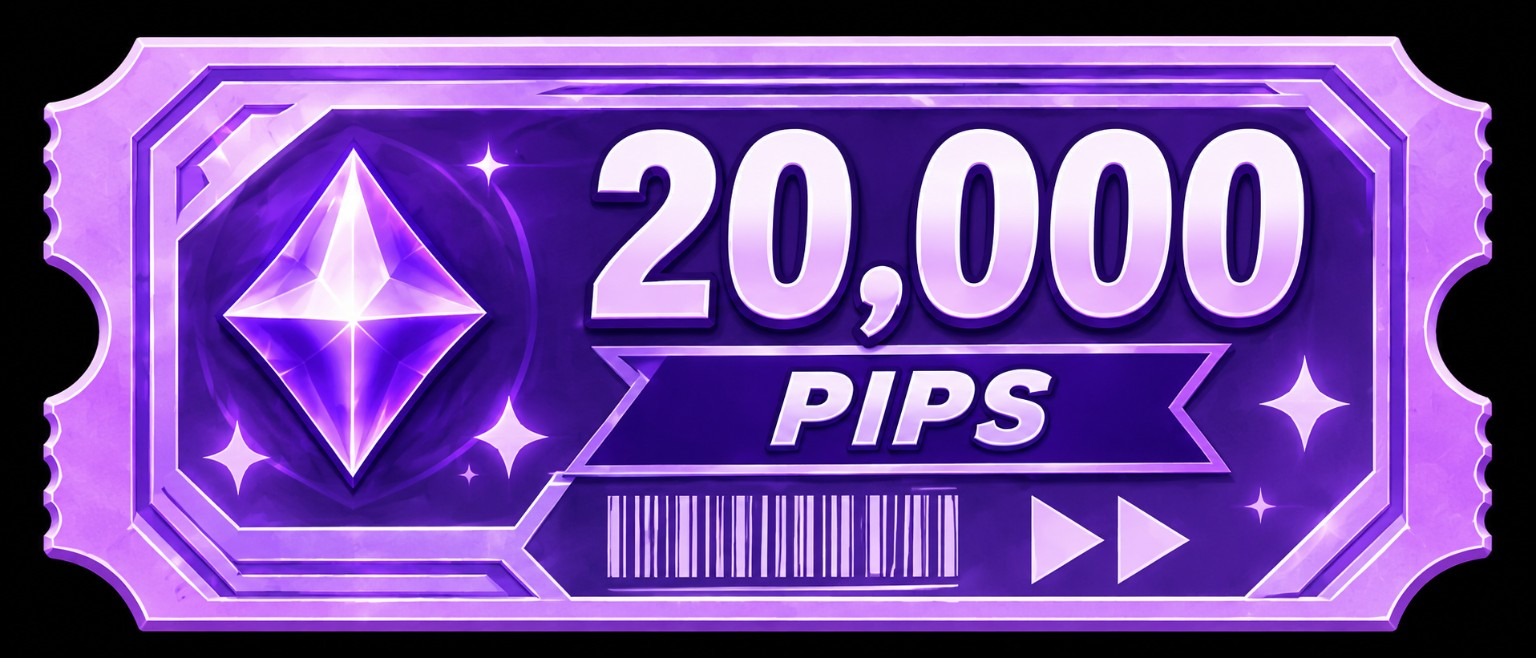
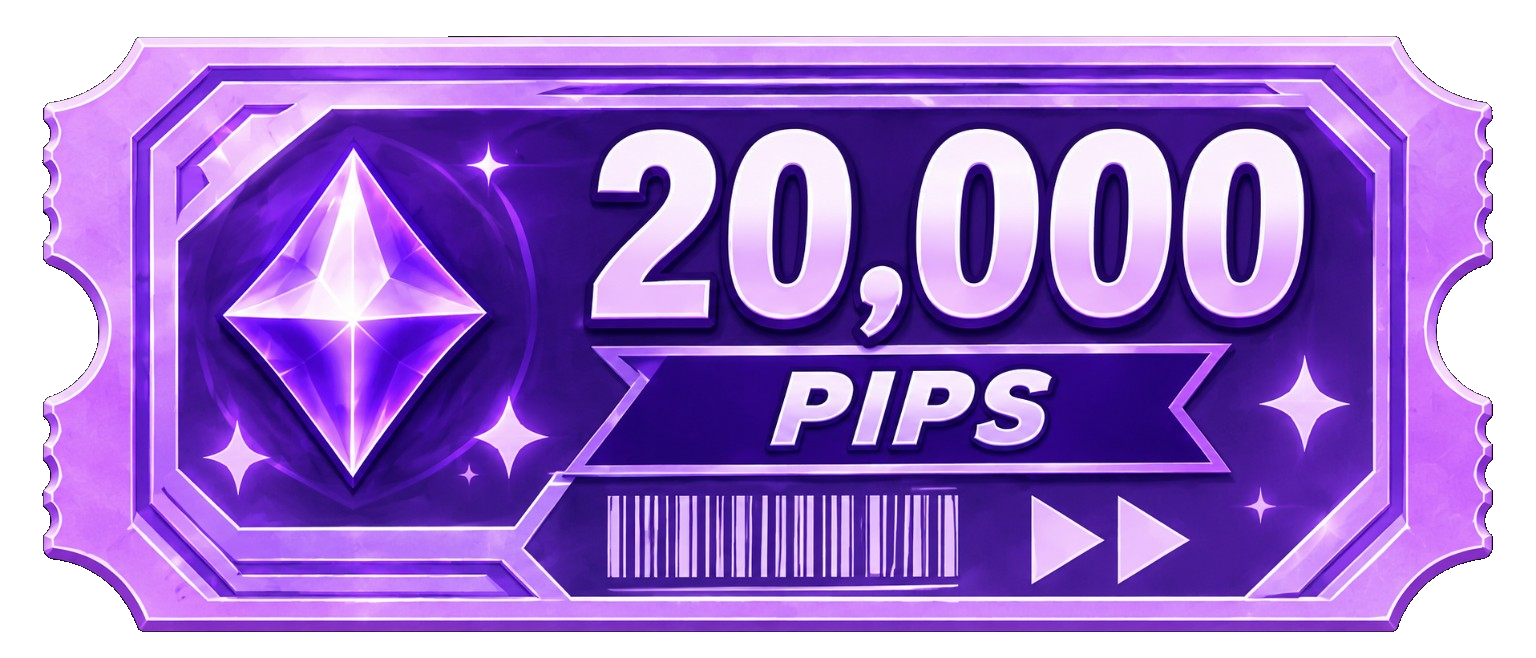
[release] Make Pip Vouchers transparent and fix server item selling
Replace the eight Pip Voucher masters with reviewed RGBA versions that remove only the connected exterior black background while preserving 1536x658 dimensions and contained presentation. Add a reusable trusted server-Inventory sell-confirm adapter so reward/event items can execute their authoritative onSell callbacks instead of being rejected by the legacy keys/cards/jewels-only online sell guard. Update immutable locks and regression validation.

Changed region(s): [[0.0, 0.0, 1.0, 1.0]]

diff --git a/online/server-item-sell-bridge-v1.js b/online/server-item-sell-bridge-v1.js
@@ -1,0 +1,48 @@
+(() => {
+  'use strict';
+  if(window.__TTD_SERVER_ITEM_SELL_BRIDGE_V1)return;
+  window.__TTD_SERVER_ITEM_SELL_BRIDGE_V1=true;
+
+  const previousShowItemDetail=window.showItemDetail;
+  const previousShowSellConfirm=window.showSellConfirm;
+  if(typeof previousShowItemDetail!=='function'||typeof previousShowSellConfirm!=='function')return;
+
+  function baseName(view){
+    return String(view?.name||'').replace(/\s+×\d+\s*$/,'').trim();
+  }
+  function isTrustedServerItem(view){
+    if(!view||view.sellable!==true||typeof view.onSell!=='function')return false;
+    const name=baseName(view);
+    if(/^\d{1,3}(?:,\d{3})* Pip Voucher$/i.test(name))return true;
+    const catalog=window.TTDItemCatalogV1?.items;
+    if(!catalog||typeof catalog!=='object')return false;
+    return Object.values(catalog).some(def=>def&&def.name===name);
+  }
+
+  window.showItemDetail=function serverItemDetailV1(view){
+    if(isTrustedServerItem(view))view._ttdServerInventorySell=true;
+    return previousShowItemDetail.apply(this,arguments);
+  };
+
+  window.showSellConfirm=function serverItemSellConfirmV1(cardEl,view){
+    if(view?._ttdServerInventorySell===true&&typeof view.onSell==='function'){
+      const value=Math.max(0,Math.floor(Number(view.sellValue)||0));
+      cardEl.innerHTML=`<h2 style="margin-top:6px;">Confirm Sale</h2><p style="color:var(--mist);font-size:13px;margin:12px 0 18px;">Sell this item for ${value.toLocaleString('en-US')} Pips?</p><button class="closeBtn" id="sellYesBtn">Yes</button><button class="closeBtn" id="sellCancelBtn" style="margin-top:8px;background:var(--ink-700);">Cancel</button>`;
+      document.getElementById('sellCancelBtn')?.addEventListener('click',()=>renderItemDetailView(cardEl,view));
+      document.getElementById('sellYesBtn')?.addEventListener('click',()=>{
+        const button=document.getElementById('sellYesBtn');
+        if(button){button.disabled=true;button.textContent='Selling…';}
+        try{
+          view.onSell();
+          if(typeof hideItemDetail==='function')hideItemDetail();
+        }catch(error){
+          console.error('Server Inventory item sale request failed before dispatch.',error);
+          if(button){button.disabled=false;button.textContent='Yes';}
+          if(typeof showNotice==='function')showNotice('Online Inventory',error?.message||'The item could not be sold.');
+        }
+      });
+      return;
+    }
+    return previousShowSellConfirm.apply(this,arguments);
+  };
+})();

diff --git a/online/runtime-bridge-loader-v1.js b/online/runtime-bridge-loader-v1.js
@@ -25,6 +25,9 @@
     // World items deliberately loads after the inventory authorities so its wrappers extend the
     // final Shop/Inventory renderers instead of being overwritten by avatar inventory.
     '/online/world-items-v1.js?v=1',
+    // The legacy online sell override only knows keys/cards/jewels. Load this after final item
+    // wrappers so trusted server-backed items can use their own authoritative onSell route.
+    '/online/server-item-sell-bridge-v1.js?v=1',
     // Moving Screen stays direct committed source: stages -> engine -> map router -> visual route
     // UI -> Die-first gesture authority -> topology gestures -> map art -> bottom battle HUD.
     '/online/moving-screen-neon-rooftops-v2.js?v=4',
